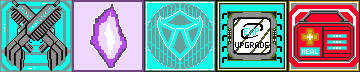
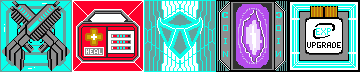
Last update

diff --git a/GameProject/GameplayScreen.cs b/GameProject/GameplayScreen.cs
@@ -10,15 +10,15 @@ namespace GameProject
         Random r = new Random();
         Game1 game;
         Texture2D test;
-        Texture2D matchTexture, matchBG;
+        Texture2D matchTexture, matchBG,BG,Mc_m,Mc_r,Mc_s;
         SpriteFont Monbar;
-        int monHealth,playerHealth,coin,exp;
-        MouseState mouse,Premouse;       
+        int monHealth,playerHealth,coin,exp,shield;       
         int[] Type = new int[60];
+        MouseState mouse, Premouse;
         Vector2[] position = new Vector2[60];
         Rectangle[] blockHit = new Rectangle[60];
         Rectangle[] TypeSelect = new Rectangle[60];
-        Color TestColor, comboTest;
+        Color comboTest;
         Color[] MatchColor = new Color[60];
         int select, combo = 0;
         public GameplayScreen(Game1 game, EventHandler theScreenEvent) : base(theScreenEvent)
@@ -27,12 +27,17 @@ namespace GameProject
             matchTexture = game.Content.Load<Texture2D>("Match");
             matchBG = game.Content.Load<Texture2D>("matchBG");
             Monbar = game.Content.Load<SpriteFont>("monbar");
-            TestColor = Color.White;
+            BG = game.Content.Load<Texture2D>("bg");
+            Mc_m = game.Content.Load<Texture2D>("Mc_m");
+            Mc_r = game.Content.Load<Texture2D>("Mc_r");
+            Mc_s = game.Content.Load<Texture2D>("Mc_s");
+
             comboTest = Color.White;
             monHealth = 100;
             playerHealth = 100;
             coin = 0;
             exp = 0;
+            shield = 0;
 
             //spawn all match3
             int count = 0;
@@ -97,12 +102,14 @@ namespace GameProject
         }
         public override void Update(GameTime theTime)
         {
+            
+            KeyboardState ks = Keyboard.GetState();
             if (monHealth <= 0)
             {
                 playerHealth = 100;
                 monHealth = 100;
                 exp = 0;
-                ScreenEvent.Invoke(game.mTitleScreen, new EventArgs());
+                ScreenEvent.Invoke(game.mSelectScreen, new EventArgs());
                 return;
             }          
             Premouse = mouse;
@@ -159,21 +166,18 @@ namespace GameProject
                 {
                     //combocheck
                     monHealth -= combo;
-                    TestColor = Color.Red;
                 }
                 else if (select == 2)
                 {
                     coin += combo;
-                    TestColor = Color.Blue;
                 }
                 else if (select == 3)
                 {
-                    TestColor = Color.Green;
+                    shield += combo;
                 }
                 else if (select == 4)
                 {
                     exp += combo;
-                    TestColor = Color.Yellow;
                 }
                 else if (select == 5)
                 {
@@ -185,7 +189,7 @@ namespace GameProject
                     {
                         playerHealth = 150;
                     }
-                    TestColor = Color.Purple;
+                    
                 }
                 //reset combo
                 if (blockHit[i].Contains(mouse.X, mouse.Y) && mouse.LeftButton == ButtonState.Pressed && Premouse.LeftButton == ButtonState.Released)
@@ -197,7 +201,7 @@ namespace GameProject
             
             
             //reset combocheck
-            if (Keyboard.GetState().IsKeyDown(Keys.R) == true)
+            if (ks.IsKeyDown(Keys.R) == true)
             {
                 comboTest = Color.White;
             }
@@ -206,12 +210,12 @@ namespace GameProject
         public override void Draw(SpriteBatch theBatch)
         {
             theBatch.Draw(test, Vector2.Zero, Color.White);
+            theBatch.Draw(BG, Vector2.Zero, Color.White);
             theBatch.Draw(matchBG, new Vector2(0, 360), comboTest);
             for (int i = 0; i < 60; i++)
             {
                 theBatch.Draw(matchTexture, position[i], TypeSelect[i], MatchColor[i]);
             }
-            theBatch.Draw(matchTexture, new Vector2(0, 350), new Rectangle(0, 0, 72, 72), TestColor);
             theBatch.DrawString(Monbar,"monsterHealth = " + monHealth.ToString(), new Vector2(1020, 150), Color.Red);
             theBatch.DrawString(Monbar, "playerHealth = " + playerHealth.ToString(), new Vector2(180, 150), Color.Red);
             theBatch.DrawString(Monbar, "coin = " + coin.ToString(), new Vector2(180, 100), Color.Red);

diff --git a/GameProject/SelectScreen.cs b/GameProject/SelectScreen.cs
@@ -1,0 +1,45 @@
+using System;
+using Microsoft.Xna.Framework;
+using Microsoft.Xna.Framework.Graphics;
+using Microsoft.Xna.Framework.Input;
+
+namespace GameProject
+{
+    public class SelectScreen : screen
+    {
+        Game1 game;
+        Texture2D Mc_m, Mc_r, Mc_s;
+        int Select = 0;
+        MouseState mouse, Premouse;
+        public SelectScreen(Game1 game, EventHandler theScreenEvent) : base(theScreenEvent)
+        {
+            Mc_m = game.Content.Load<Texture2D>("Mc_m");
+            Mc_r = game.Content.Load<Texture2D>("Mc_r");
+            Mc_s = game.Content.Load<Texture2D>("Mc_s");
+            this.game = game;
+        }
+        public override void Update(GameTime theTime)
+        {           
+            Premouse = mouse;
+            mouse = Mouse.GetState();
+            if (Select == 1)
+            {
+
+            }
+            else if (Select == 2)
+            {
+
+            }
+            else if (Select == 3)
+            {
+
+            }
+            base.Update(theTime);
+        }
+        public override void Draw(SpriteBatch theBatch)
+        {
+            theBatch.Draw(Mc_m, new Vector2(0,120), Color.White);
+            base.Draw(theBatch);
+        }
+    }
+}

diff --git a/GameProject/Game1.cs b/GameProject/Game1.cs
@@ -15,6 +15,7 @@ namespace GameProject
         public screen mCurrentScreen;
         public GameplayScreen mGameplayScreen;
         public TitleScreen mTitleScreen;
+        public SelectScreen mSelectScreen;
 
 
         public Game1()
@@ -38,7 +39,8 @@ namespace GameProject
             _spriteBatch = new SpriteBatch(GraphicsDevice);
             mGameplayScreen = new GameplayScreen(this, new EventHandler(GameplayScreenEvent));
             mTitleScreen = new TitleScreen(this, new EventHandler(GameplayScreenEvent));
-            mCurrentScreen = mTitleScreen;
+            mSelectScreen = new SelectScreen(this, new EventHandler(GameplayScreenEvent));
+            mCurrentScreen = mGameplayScreen;
         }
 
         protected override void Update(GameTime gameTime)

diff --git a/GameProject/ShopScreen.cs b/GameProject/ShopScreen.cs
@@ -1,0 +1,24 @@
+using System;
+using Microsoft.Xna.Framework;
+using Microsoft.Xna.Framework.Graphics;
+using Microsoft.Xna.Framework.Input;
+
+namespace GameProject
+{
+    class ShopScreen : screen
+    {
+        Game1 game;
+        public ShopScreen(Game1 game, EventHandler theScreenEvent) : base(theScreenEvent)
+        {
+            this.game = game;
+        }
+        public override void Update(GameTime theTime)
+        {
+            base.Update(theTime);
+        }
+        public override void Draw(SpriteBatch theBatch)
+        {
+            base.Draw(theBatch);
+        }
+    }
+}

diff --git a/GameProject/TitleScreen.cs b/GameProject/TitleScreen.cs
@@ -21,7 +21,7 @@ namespace GameProject
             mouse = Mouse.GetState();
             if (mouse.LeftButton == ButtonState.Pressed && Premouse.LeftButton == ButtonState.Released)
             {
-                ScreenEvent.Invoke(game.mGameplayScreen, new EventArgs());
+                ScreenEvent.Invoke(game.mSelectScreen, new EventArgs());
                 return;
             }
             base.Update(theTime);
